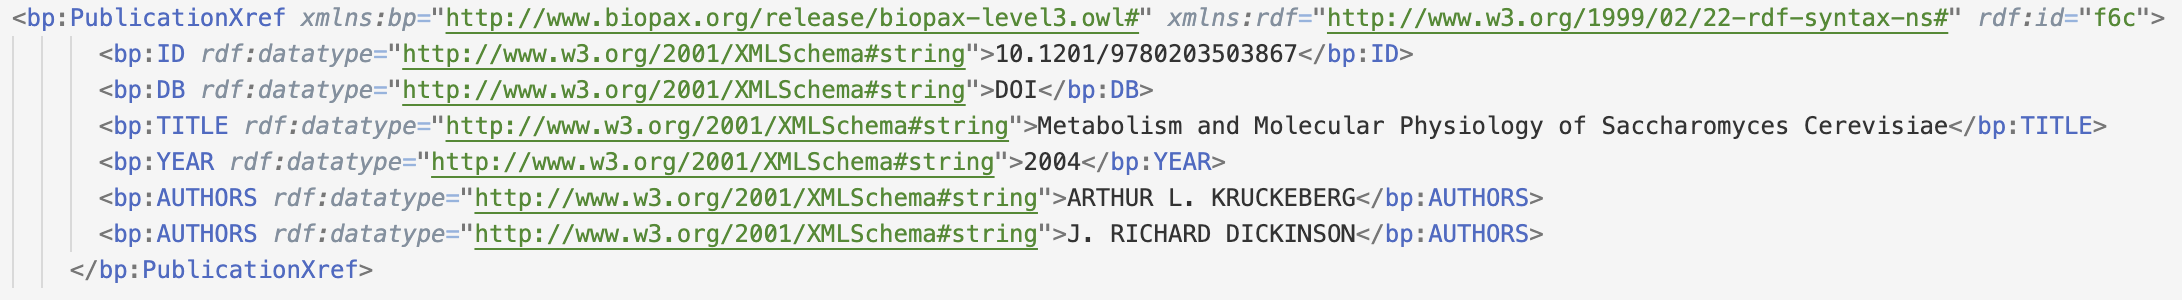
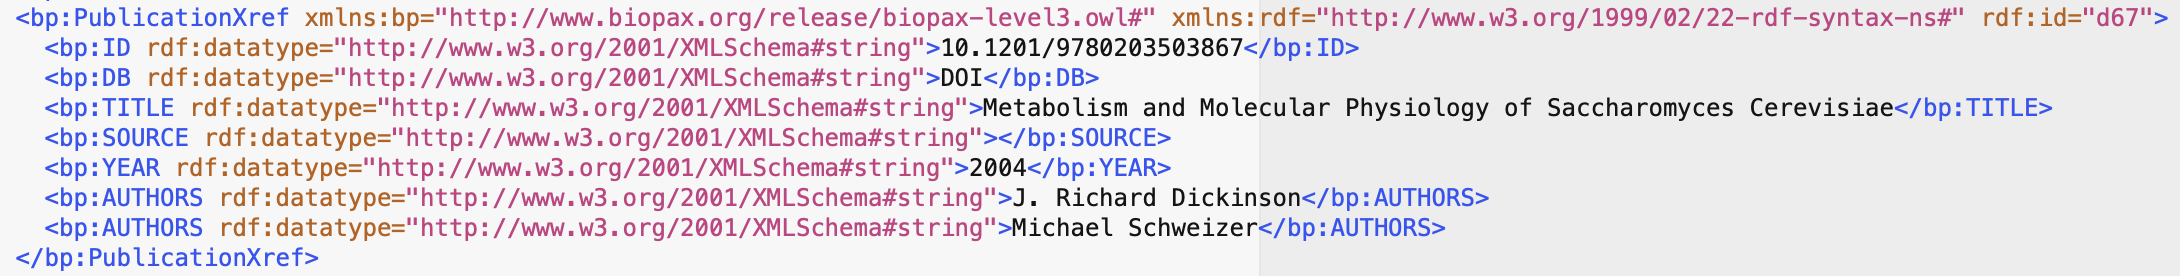
updated instructions, image

Changed region(s): [[0.0, 0.029, 0.9982, 0.9855]]

diff --git a/stages/draw-advanced-literature/index.html b/stages/draw-advanced-literature/index.html
@@ -40,38 +40,56 @@
 
           <h2>Background</h2>
 	  <p>
-	  WikiPathways allows you to add citations to the overall pathway and to individual nodes and interactions, and PathVisio enables you to <a href="https://academy.wikipathways.org/stages/met-1-add-literature/" target="_blank">easily add references from PubMed</a>. References from other sources, 
-          such as ISBN and DOI, are also allowed but have to be added manually.</p>
-          <h2>Challenge</h2>
+	  WikiPathways allows you to add references at the pathway level, as well as to individual nodes and interactions. PubMed references can <a href="https://academy.wikipathways.org/stages/met-1-add-literature/" target="_blank">easily be added via PathVisio</a>, but references from other sources 
+          such as ISBN and DOI, must be added in a semi-manual way, described here. References must be added in a structured format, and the minimum amount of information needed is an <b>identifier</b> and the corresponding <b>database</b>, or id type. The following types of references are currently supported: </p>
+          
+      <table style="width: 500px;">
+        <tr>
+            <th>Database</th>
+            <th>Identifier example</th>
+        </tr>
+        <tr>
+            <td>PubMed</td>
+            <td>PMID: 22110403</td>
+        </tr>
+        <tr>
+            <td>ISBN</td>
+            <td>978-1-56619-909-4 (ISBN-13) or 1-56619-909-3 (ISBN-10)</td>
+        </tr>
+        <tr>
+            <td>DOI</td>
+            <td>10.1201/9780203503867</td>
+        </tr>
+        <tr>
+            <td>URL</td>
+            <td>https://en.wikipedia.org/wiki/Pentose_phosphate_pathway</td>
+          </tr>
+            </table>
+            
+      <h2>Challenge</h2>
 	  <p>
-	  Add a DOI literature reference to your pathway.
+	  Add a DOI literature reference for <a href="https://www.taylorfrancis.com/books/edit/10.1201/9780203503867/metabolism-molecular-physiology-saccharomyces-cerevisiae-michael-schweizer-richard-dickinson" target="_blank">Metabolism and Molecular Physiology of Saccharomyces Cerevisiae</a> to your pathway.
 	  </p> 
 	<div>
           <ul>
-       <li>Download the starter pathway here: <a href="https://academy.wikipathways.org/data/draw-compartment-start.gpml">advanced-literature-reference.gpml</a>.</li>
-        <li>Open the gpml in PathVisio</li>
-        <li>Launch PathVisio and open the dowloaded file via <b>File > Open</b>.</li>
+       <li>Download the <a href="https://academy.wikipathways.org/data/draw-compartment-start.gpml">starter pathway</a> and open the gpml in PathVisio.</li>
         <li>Double-click on the textbox in the upper-left that includes title and organism (<b>Pathway Information</b> area).</li>
         <li>Select the <b>Literature</b> tab and click the <b>New reference</b> button.</li>
-        <li>Instead of using the <b>Query PubMed</b> feature, we are going to just enter the DOI number in the <b>Source</b> field. This reference will serve as  a placeholder that we can then edit manually.</li>
-        <li>Click <b>Ok</b> to exit out of the <b>Literature reference properties</b> interface, and save the gpml.</li>
-        <li>Next, open the gpml in a text editor.</li>
-	    <li>We are going to edit the reference we just added to make it complete. For a textbook: <a href="https://www.taylorfrancis.com/books/edit/10.1201/9780203503867/metabolism-molecular-physiology-saccharomyces-cerevisiae-michael-schweizer-richard-dickinson" target="_blank">Metabolism and Molecular Physiology of Saccharomyces Cerevisiae</a>. At a minimum, the reference has to include the <b>identifier</b> (DOI 10.1201/9780203503867) and the <b>database</b> (in this case DOI), but we can also enter additional information. In this case, we also have the following information:
+              <li>Enter the following information for the DOI reference:</li>
             <ul>
-                <li>Title</li>
-                <li>Authors</li>
-                <li>Publication year</li>
-            </ul></li>
-          <li>The literature reference we added earlier will be in the <code>Biopax</code> section of the GPML, which is usually at the end. The format of the reference should be as follows:
-         <br /><br />
-              
+                <li>Enter the DOI (10.1201/9780203503867) in the <b>PubMed</b> field.</li>
+                <li>Enter the publication year (2004) in the <b>Year</b> field.</li>
+                <li>Enter the Title (Metabolism and Molecular Physiology of Saccharomyces Cerevisiae) in the <b>Title</b> field.</li>
+                <li>Enter the author names (J. Richard Dickinson, Michael Schweizer) in the <b>Authors</b> field, separated by semicolon.</li>
+            </ul>
+        <li>Click <b>Ok</b> to exit out of the <b>Literature reference properties</b> interface, and save the gpml.</li>
+        <li>Next, open the gpml in a text editor. We are going to edit the reference we just added.</li>
+          <li>The literature reference we added earlier will be in the <code>Biopax</code> section of the GPML, which is usually at the end. The format of the reference should be as follows:</li>
           <img src="biopax-lit-ref.png" width="1000px">
-          </li>
-          <br /><br />
+          <li>Update the contents of the <code>bp:DB</code> tag from <b>PubMed</b> to <b>DOI</b>.</li>
           <li>When you are done, save your GPML file.</li>
           <li>Drag-and-drop the GPML file below to check if it is correct.</li>
           </ul>
-          <br />
         <div id="upload-target-container"></div> 
         <div id="next-button">
 		<a href="../met-1-description/index.html" class="btn btn-info btn-lg pull-right">Next step</a>

diff --git a/stylesheets/stylesheet.css b/stylesheets/stylesheet.css
@@ -447,6 +447,7 @@ table {
 td,
 th {
   padding: 0;
+  border: 1px solid #dddddd;
 }
 
 /* LAYOUT STYLES */
